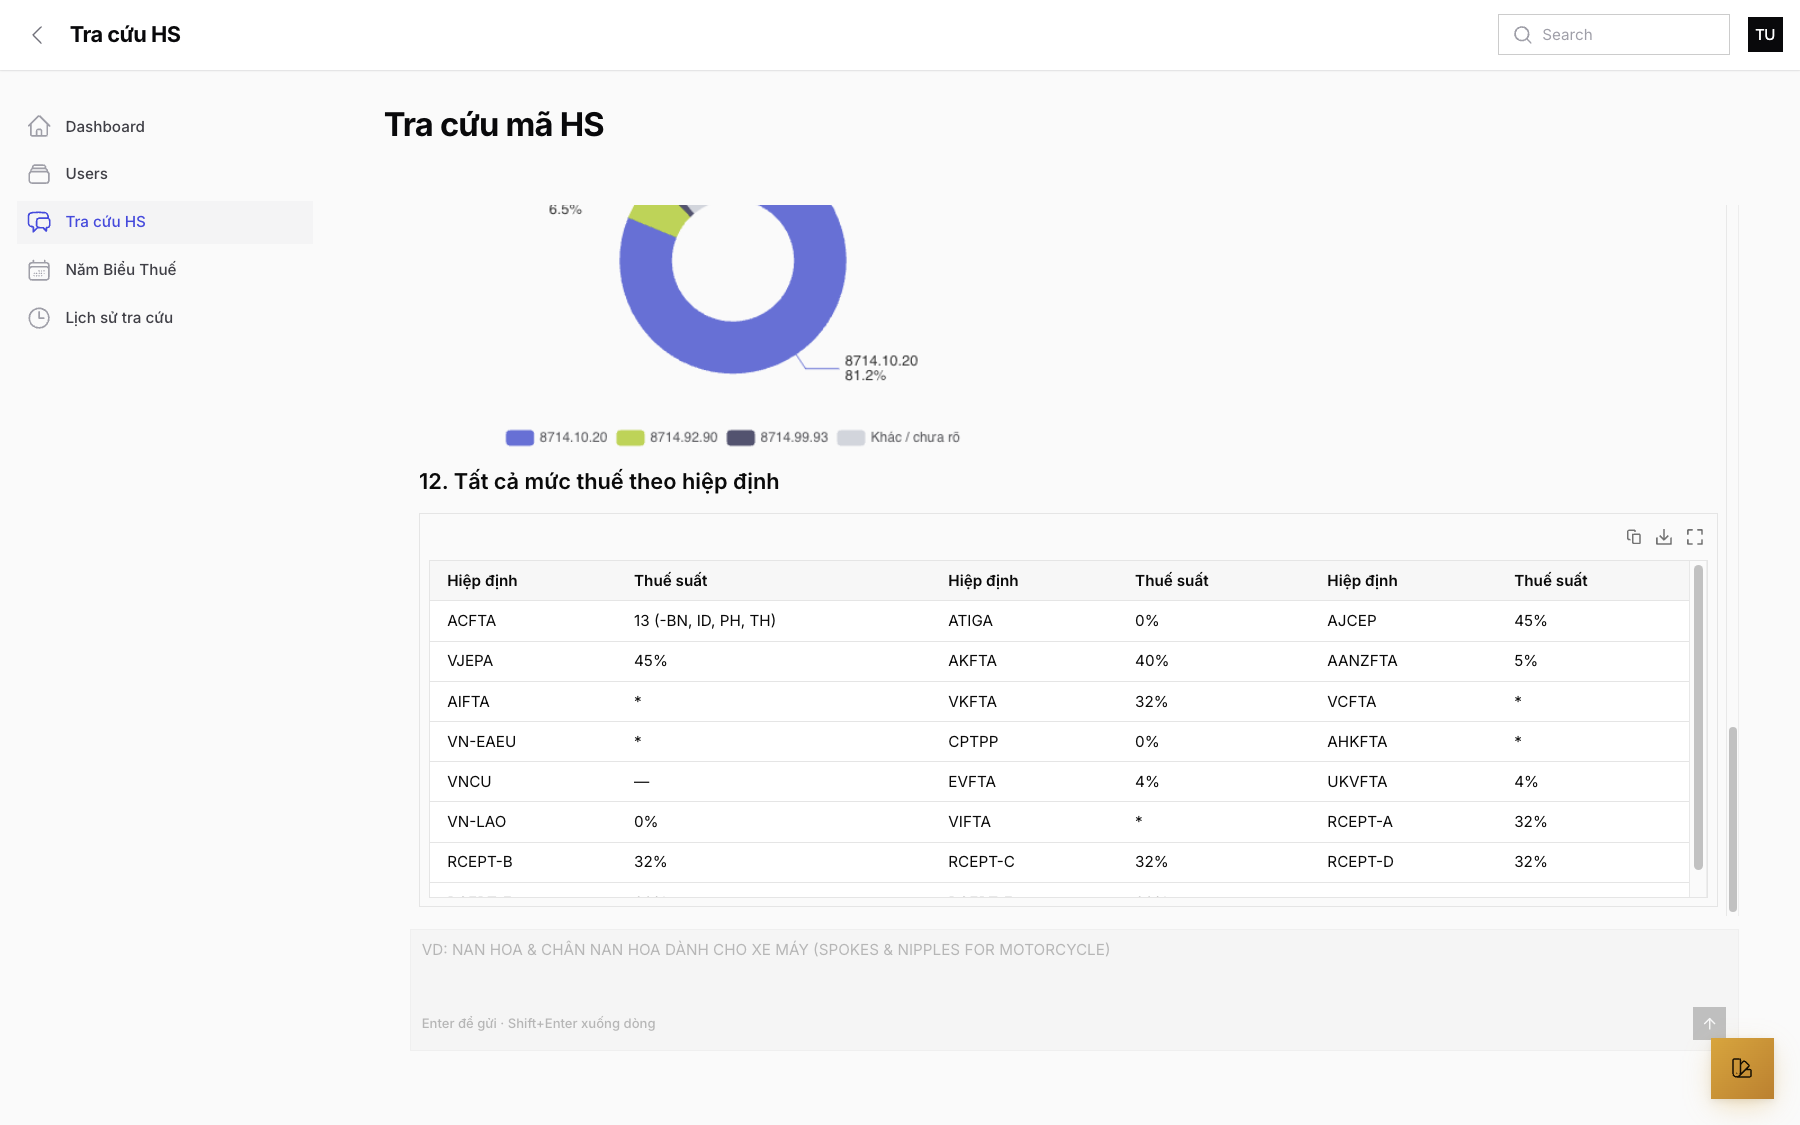
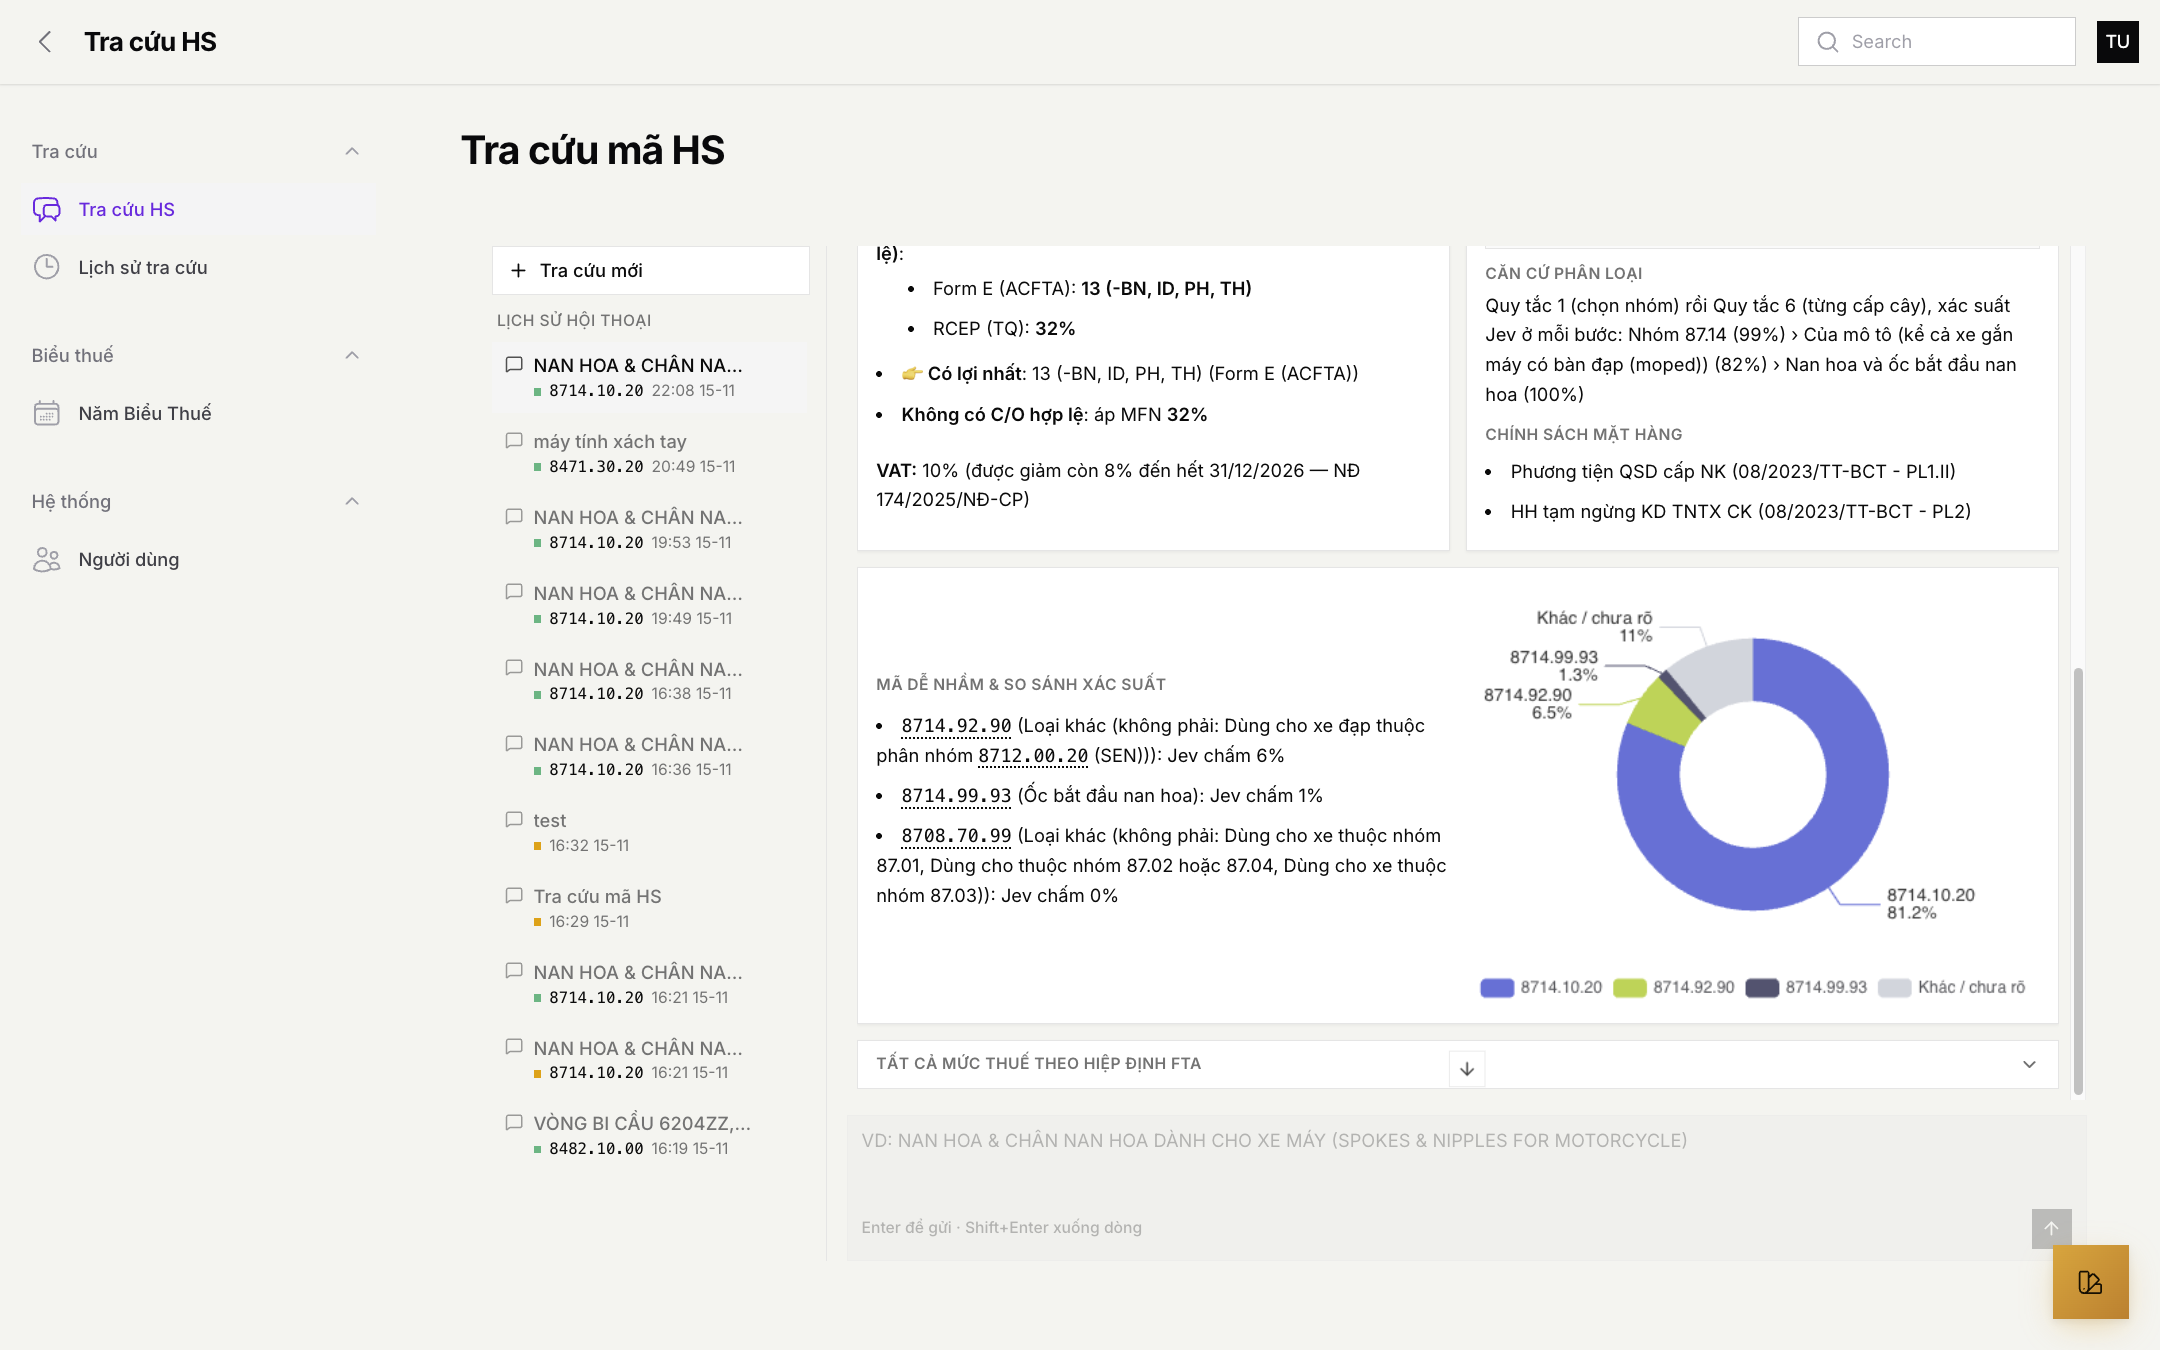
Redesign HS result card UI and update README screenshots

diff --git a/admin/resources/js/components/tra-cuu/result-card.tsx b/admin/resources/js/components/tra-cuu/result-card.tsx
@@ -1,0 +1,349 @@
+import { useState, type ReactNode } from "react";
+import {
+    AlertTriangleIcon,
+    CheckCircle2Icon,
+    CheckIcon,
+    ChevronDownIcon,
+    CopyIcon,
+    ExternalLinkIcon,
+    FileTextIcon,
+    ScaleIcon,
+    ShieldAlertIcon,
+    ShieldCheckIcon,
+} from "lucide-react";
+import { Streamdown, type Components } from "streamdown";
+import { linkCodesInMarkdown, type CodeLinks } from "./links";
+
+type ParsedResultCard = {
+    item: string;
+    code: string;
+    meta: string;
+    tariffPath: string;
+    riskLevel: "low" | "medium" | "high";
+    riskText: string;
+    declaration: string;
+    legalBasis: string;
+    importTax: string;
+    vat: string;
+    otherTax?: string;
+    policies: string;
+    confusable: string;
+    chartOption?: string;
+    ftaTable: string;
+};
+
+const ECHARTS_RE = /```echarts\s*\n([\s\S]*?)\n```/;
+
+function stripCodeFence(text: string): string {
+    const match = text.trim().match(/^```(?:text)?\s*\n([\s\S]*?)\n```$/);
+    return match ? match[1].trim() : text.trim();
+}
+
+function parseResultCard(markdown: string): ParsedResultCard | null {
+    if (
+        !markdown.includes("### 1. Mặt hàng") ||
+        !markdown.includes("### 2. Mã HS")
+    ) {
+        return null;
+    }
+
+    const sections = new Map<string, string>();
+    const matches = [...markdown.matchAll(/^###\s+(\d+)\.\s+([^\n]+)\n/gm)];
+    for (let i = 0; i < matches.length; i++) {
+        const num = matches[i][1];
+        const start = (matches[i].index ?? 0) + matches[i][0].length;
+        const end =
+            i + 1 < matches.length
+                ? (matches[i + 1].index ?? markdown.length)
+                : markdown.length;
+        sections.set(num, markdown.slice(start, end).trim());
+    }
+
+    const item = (sections.get("1") ?? "").replace(/^\*\*|\*\*$/g, "").trim();
+    const rawCode = sections.get("2") ?? "";
+    const codeMatch = rawCode.match(/(\d{4}\.\d{2}\.\d{2}|\d{8})/);
+    const code = codeMatch ? codeMatch[1] : rawCode;
+    const metaMatch = rawCode.match(/`([^`]+)`/);
+    const meta = metaMatch ? metaMatch[1] : "";
+
+    const rawRisk = sections.get("4") ?? "";
+    const riskLevel: ParsedResultCard["riskLevel"] = rawRisk.includes("🔴")
+        ? "high"
+        : rawRisk.includes("🟡")
+          ? "medium"
+          : "low";
+    const riskText = rawRisk
+        .replace(/^[🔴🟡🟢]\s*/, "")
+        .replace(/\*\*/g, "")
+        .trim();
+
+    const raw11 = sections.get("11") ?? "";
+    const chartMatch = raw11.match(ECHARTS_RE);
+    const chartOption = chartMatch ? chartMatch[1] : undefined;
+    const confusable = raw11
+        .replace(ECHARTS_RE, "")
+        .replace(/\*\*So sánh xác suất các mã \(Jev\):\*\*/g, "")
+        .trim();
+
+    return {
+        item,
+        code,
+        meta,
+        tariffPath: sections.get("3") ?? "",
+        riskLevel,
+        riskText,
+        declaration: stripCodeFence(sections.get("5") ?? ""),
+        legalBasis: sections.get("6") ?? "",
+        importTax: sections.get("7") ?? "",
+        vat: sections.get("8") ?? "",
+        otherTax: sections.get("9"),
+        policies: sections.get("10") ?? "",
+        confusable,
+        chartOption,
+        ftaTable: sections.get("12") ?? "",
+    };
+}
+
+function CopyButton({ text, label = "Sao chép" }: { text: string; label?: string }) {
+    const [copied, setCopied] = useState(false);
+
+    const copy = async () => {
+        try {
+            await navigator.clipboard.writeText(text);
+            setCopied(true);
+            setTimeout(() => setCopied(false), 1500);
+        } catch {
+            // bỏ qua nếu clipboard không khả dụng
+        }
+    };
+
+    return (
+        <button
+            type="button"
+            onClick={() => void copy()}
+            title={label}
+            className="inline-flex items-center gap-1 rounded-md border border-border bg-background px-2 py-1 text-xs font-medium text-muted-foreground transition hover:bg-muted hover:text-foreground"
+        >
+            {copied ? (
+                <>
+                    <CheckIcon className="size-3.5 text-emerald-500" />
+                    <span>Đã chép</span>
+                </>
+            ) : (
+                <>
+                    <CopyIcon className="size-3.5" />
+                    <span>{label}</span>
+                </>
+            )}
+        </button>
+    );
+}
+
+const RISK_STYLES = {
+    low: {
+        badge: "border-emerald-200 bg-emerald-50 text-emerald-700 dark:border-emerald-900/60 dark:bg-emerald-950/40 dark:text-emerald-300",
+        Icon: ShieldCheckIcon,
+    },
+    medium: {
+        badge: "border-amber-200 bg-amber-50 text-amber-700 dark:border-amber-900/60 dark:bg-amber-950/40 dark:text-amber-300",
+        Icon: AlertTriangleIcon,
+    },
+    high: {
+        badge: "border-red-200 bg-red-50 text-red-700 dark:border-red-900/60 dark:bg-red-950/40 dark:text-red-300",
+        Icon: ShieldAlertIcon,
+    },
+};
+
+function MarkdownBody({
+    text,
+    links,
+    components,
+}: {
+    text: string;
+    links: CodeLinks;
+    components: Components;
+}) {
+    return (
+        <div className="text-sm leading-relaxed text-foreground [&>ul]:my-1 [&>ul]:list-disc [&>ul]:space-y-1 [&>ul]:pl-4 [&_table]:w-full [&_table]:text-xs">
+            <Streamdown
+                mode="static"
+                linkSafety={{ enabled: false }}
+                components={components}
+            >
+                {linkCodesInMarkdown(text, links)}
+            </Streamdown>
+        </div>
+    );
+}
+
+export function StructuredResultCard({
+    markdown,
+    links,
+    markdownComponents,
+    renderChart,
+}: {
+    markdown: string;
+    links: CodeLinks;
+    markdownComponents: Components;
+    renderChart: (option: string) => ReactNode;
+}) {
+    const parsed = parseResultCard(markdown);
+    if (!parsed) {
+        return null;
+    }
+
+    const digits = parsed.code.replace(/\./g, "");
+    const codeHref = links.codeUrl ? `${links.codeUrl}?ma=${digits}` : null;
+    const riskStyle = RISK_STYLES[parsed.riskLevel];
+    const RiskIcon = riskStyle.Icon;
+
+    return (
+        <div className="flex flex-col gap-3">
+            {/* Hero Summary Card */}
+            <div className="rounded-xl border border-border bg-card p-4 shadow-xs">
+                <div className="flex flex-wrap items-start justify-between gap-3">
+                    <div className="min-w-0 flex-1">
+                        <div className="text-xs font-medium uppercase tracking-wide text-muted-foreground">
+                            {parsed.item}
+                        </div>
+                        <div className="mt-1.5 flex flex-wrap items-center gap-2.5">
+                            <span className="font-mono text-2xl font-bold tracking-tight text-red-600 dark:text-red-400">
+                                {parsed.code}
+                            </span>
+                            <CopyButton text={parsed.code} label="Chép mã" />
+                            {codeHref && (
+                                <a
+                                    href={codeHref}
+                                    target="_blank"
+                                    rel="noopener noreferrer"
+                                    className="inline-flex items-center gap-1 rounded-md border border-border bg-background px-2 py-1 text-xs font-medium text-muted-foreground transition hover:bg-muted hover:text-foreground"
+                                >
+                                    <span>Xem biểu thuế</span>
+                                    <ExternalLinkIcon className="size-3" />
+                                </a>
+                            )}
+                        </div>
+                    </div>
+
+                    <div className="flex flex-wrap items-center gap-2">
+                        {parsed.meta && (
+                            <span className="inline-flex items-center gap-1.5 rounded-full border border-emerald-200 bg-emerald-50 px-2.5 py-1 text-xs font-medium text-emerald-700 dark:border-emerald-900/60 dark:bg-emerald-950/40 dark:text-emerald-300">
+                                <CheckCircle2Icon className="size-3.5" />
+                                <span>{parsed.meta}</span>
+                            </span>
+                        )}
+                        <span
+                            className={`inline-flex items-center gap-1.5 rounded-full border px-2.5 py-1 text-xs font-medium ${riskStyle.badge}`}
+                        >
+                            <RiskIcon className="size-3.5" />
+                            <span>{parsed.riskText.split(":")[0]}</span>
+                        </span>
+                    </div>
+                </div>
+
+                {parsed.tariffPath && (
+                    <div className="mt-3 rounded-lg bg-muted/60 px-3 py-2 text-xs leading-relaxed text-muted-foreground">
+                        <span className="font-medium text-foreground">
+                            Theo biểu thuế:{" "}
+                        </span>
+                        {parsed.tariffPath}
+                    </div>
+                )}
+
+                {parsed.riskText.includes(":") && (
+                    <p className="mt-2 text-xs text-muted-foreground">
+                        {parsed.riskText}
+                    </p>
+                )}
+            </div>
+
+            {/* 2-Column Main Info */}
+            <div className="grid gap-3 lg:grid-cols-2">
+                <div className="rounded-xl border border-border bg-card p-3.5 shadow-xs">
+                    <div className="mb-2 flex items-center gap-1.5 text-xs font-semibold uppercase tracking-wide text-muted-foreground">
+                        <ScaleIcon className="size-3.5" />
+                        <span>Thuế nhập khẩu & VAT</span>
+                    </div>
+                    <MarkdownBody
+                        text={`${parsed.importTax}\n\n**VAT:** ${parsed.vat}${parsed.otherTax ? `\n\n${parsed.otherTax}` : ""}`}
+                        links={links}
+                        components={markdownComponents}
+                    />
+                </div>
+
+                <div className="flex flex-col gap-3 rounded-xl border border-border bg-card p-3.5 shadow-xs">
+                    <div>
+                        <div className="mb-1.5 flex items-center justify-between gap-2">
+                            <span className="flex items-center gap-1.5 text-xs font-semibold uppercase tracking-wide text-muted-foreground">
+                                <FileTextIcon className="size-3.5" />
+                                <span>Mô tả khai báo gợi ý</span>
+                            </span>
+                            <CopyButton text={parsed.declaration} />
+                        </div>
+                        <div className="rounded-lg border border-border bg-muted/50 px-3 py-2 text-sm text-foreground">
+                            {parsed.declaration}
+                        </div>
+                    </div>
+
+                    <div>
+                        <div className="mb-1 text-xs font-semibold uppercase tracking-wide text-muted-foreground">
+                            Căn cứ phân loại
+                        </div>
+                        <MarkdownBody
+                            text={parsed.legalBasis}
+                            links={links}
+                            components={markdownComponents}
+                        />
+                    </div>
+
+                    <div>
+                        <div className="mb-1 text-xs font-semibold uppercase tracking-wide text-muted-foreground">
+                            Chính sách mặt hàng
+                        </div>
+                        <MarkdownBody
+                            text={parsed.policies}
+                            links={links}
+                            components={markdownComponents}
+                        />
+                    </div>
+                </div>
+            </div>
+
+            {/* Confusable Codes & Chart */}
+            <div className="grid items-center gap-3 rounded-xl border border-border bg-card p-3.5 shadow-xs lg:grid-cols-2">
+                <div>
+                    <div className="mb-2 text-xs font-semibold uppercase tracking-wide text-muted-foreground">
+                        Mã dễ nhầm & So sánh xác suất
+                    </div>
+                    <MarkdownBody
+                        text={parsed.confusable}
+                        links={links}
+                        components={markdownComponents}
+                    />
+                </div>
+                {parsed.chartOption && (
+                    <div className="flex justify-center">
+                        {renderChart(parsed.chartOption)}
+                    </div>
+                )}
+            </div>
+
+            {/* Collapsible FTA Table */}
+            {parsed.ftaTable && (
+                <details className="group rounded-xl border border-border bg-card shadow-xs">
+                    <summary className="flex cursor-pointer list-none items-center justify-between px-3.5 py-2.5 text-xs font-semibold uppercase tracking-wide text-muted-foreground hover:text-foreground">
+                        <span>Tất cả mức thuế theo hiệp định FTA</span>
+                        <ChevronDownIcon className="size-4 transition group-open:rotate-180" />
+                    </summary>
+                    <div className="border-t border-border px-3.5 py-3">
+                        <MarkdownBody
+                            text={parsed.ftaTable}
+                            links={links}
+                            components={markdownComponents}
+                        />
+                    </div>
+                </details>
+            )}
+        </div>
+    );
+}

diff --git a/admin/resources/js/components/tra-cuu/answer.tsx b/admin/resources/js/components/tra-cuu/answer.tsx
@@ -5,6 +5,7 @@ import { PieChart } from 'echarts/charts'
 import { LegendComponent, TooltipComponent } from 'echarts/components'
 import { CanvasRenderer } from 'echarts/renderers'
 import { linkCodesInMarkdown, type CodeLinks } from './links'
+import { StructuredResultCard } from './result-card'
 
 echarts.use([PieChart, LegendComponent, TooltipComponent, CanvasRenderer])
 
@@ -65,6 +66,18 @@ const markdownComponents: Components = {
 
 /** Thẻ kết quả / thẻ cần bổ sung (markdown do workflow dựng), biểu đồ vẽ tại chỗ, mã 8 số thành link. */
 export function Answer({ markdown, links }: { markdown: string; links: CodeLinks }) {
+    const structured = (
+        <StructuredResultCard
+            markdown={markdown}
+            links={links}
+            markdownComponents={markdownComponents}
+            renderChart={(option) => <EChart option={option} />}
+        />
+    )
+    if (markdown.includes('### 1. Mặt hàng') && markdown.includes('### 2. Mã HS')) {
+        return structured
+    }
+
     return (
         <div className="flex flex-col gap-3">
             {splitCharts(markdown).map((part, index) =>
